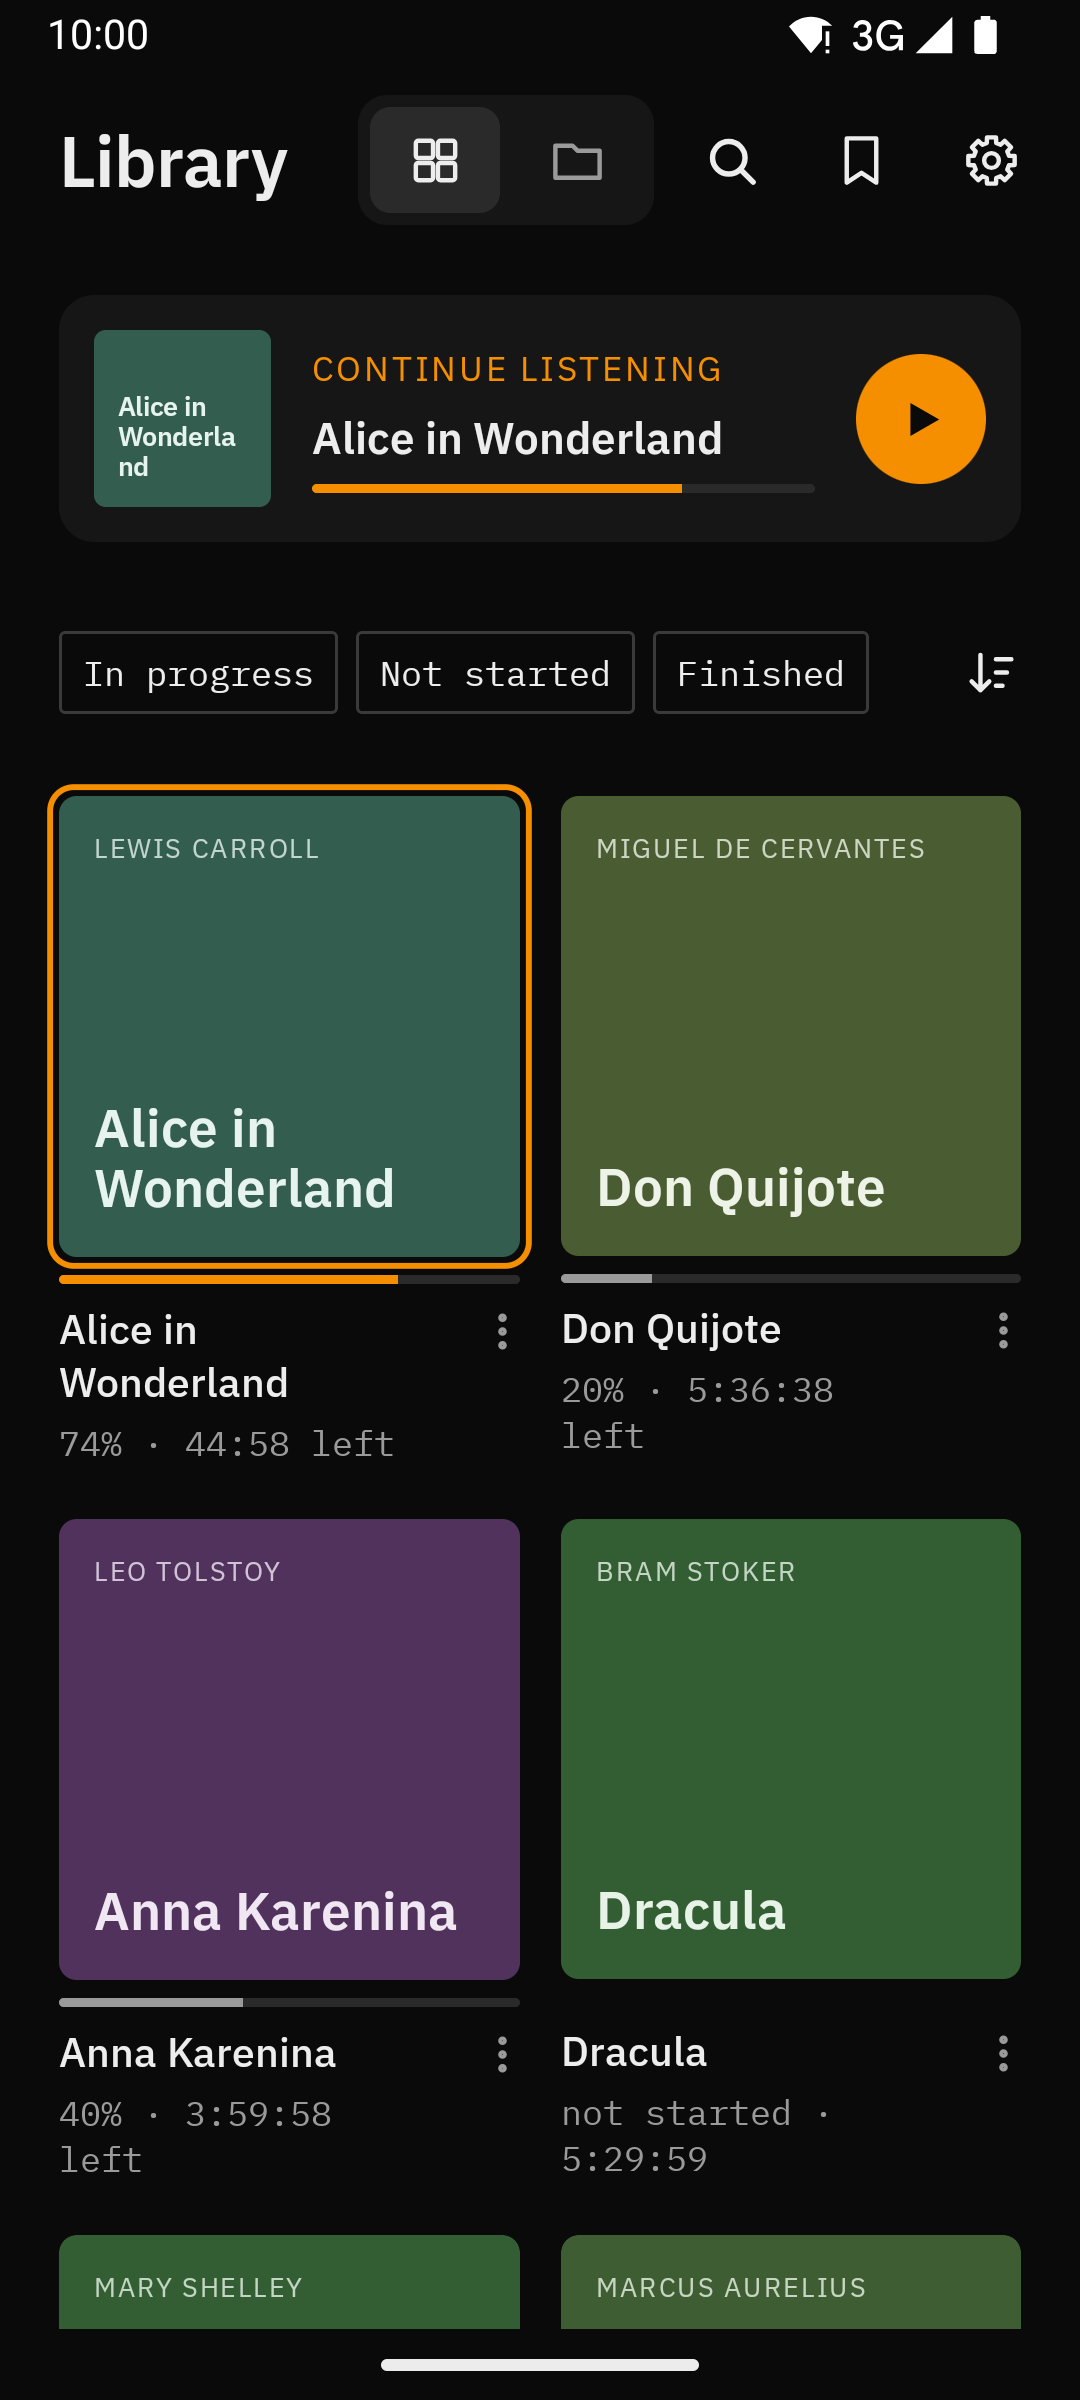
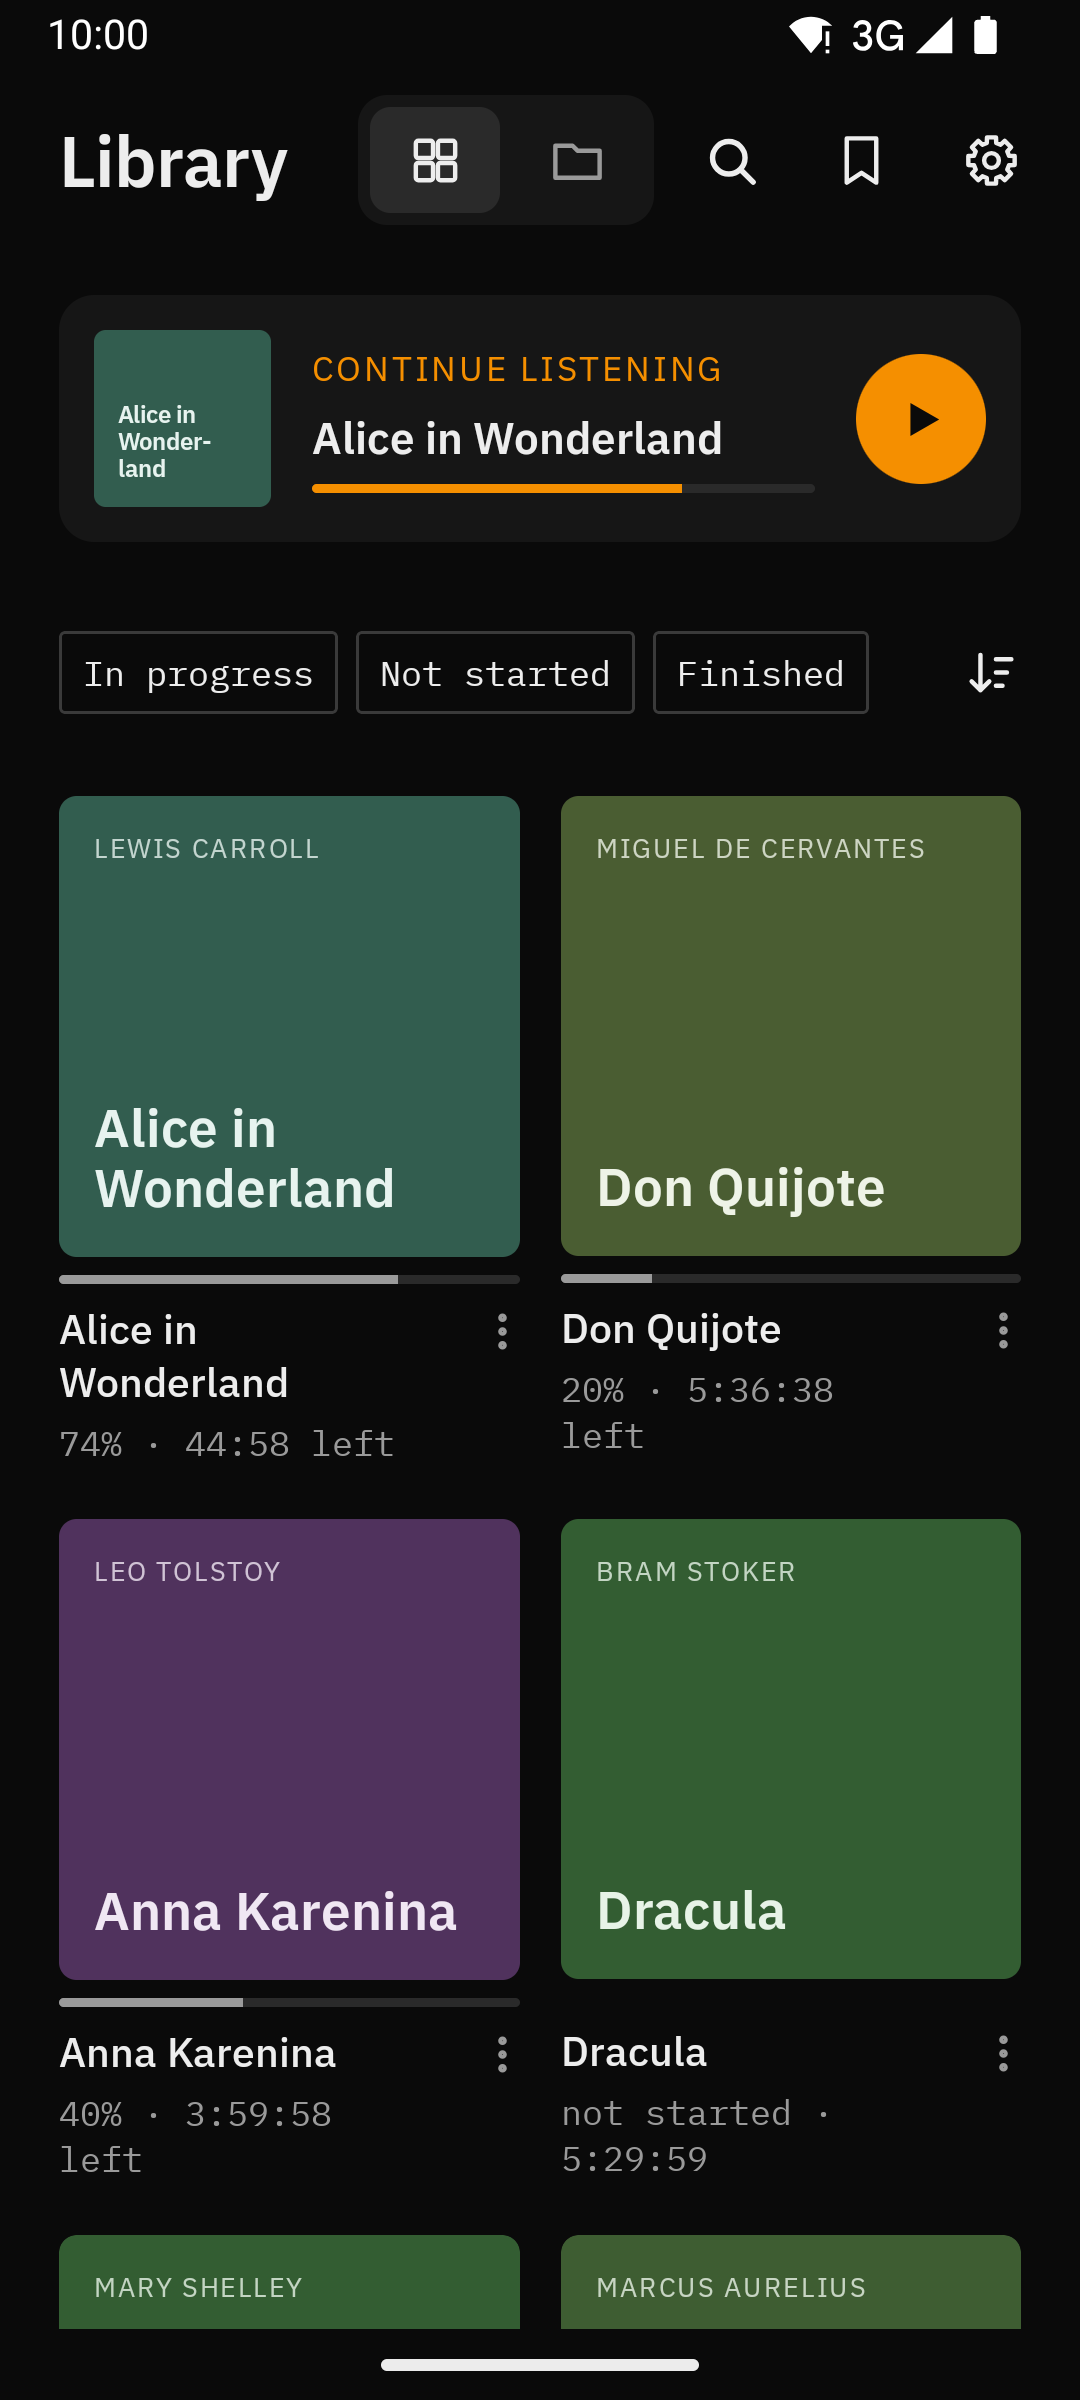
fix: fit long words on small typographic covers, lowercase app name
Shrink the title until its widest word fits, then hyphenate instead of
breaking mid-word. Visible name is now "lector", like the repo.

diff --git a/app/src/main/java/codelab/lector/ui/components/Cover.kt b/app/src/main/java/codelab/lector/ui/components/Cover.kt
@@ -3,20 +3,25 @@ package codelab.lector.ui.components
 import androidx.compose.foundation.background
 import androidx.compose.foundation.layout.Arrangement
 import androidx.compose.foundation.layout.Box
+import androidx.compose.foundation.layout.BoxWithConstraints
 import androidx.compose.foundation.layout.Column
 import androidx.compose.foundation.layout.Spacer
 import androidx.compose.foundation.layout.size
 import androidx.compose.foundation.layout.fillMaxSize
+import androidx.compose.foundation.layout.fillMaxWidth
 import androidx.compose.foundation.layout.padding
 import androidx.compose.foundation.shape.RoundedCornerShape
 import androidx.compose.material3.Text
 import androidx.compose.runtime.Composable
+import androidx.compose.runtime.remember
 import androidx.compose.ui.Modifier
 import androidx.compose.ui.draw.clip
 import androidx.compose.ui.graphics.Color
 import androidx.compose.ui.layout.ContentScale
 import androidx.compose.ui.text.TextStyle
 import androidx.compose.ui.text.font.FontWeight
+import androidx.compose.ui.text.rememberTextMeasurer
+import androidx.compose.ui.text.style.Hyphens
 import androidx.compose.ui.text.style.TextOverflow
 import androidx.compose.ui.unit.Dp
 import androidx.compose.ui.unit.dp
@@ -79,13 +84,35 @@ fun BookCover(
         } else {
             Spacer(Modifier.size(0.dp))
         }
-        Text(
-            title,
-            style = titleStyle.copy(fontWeight = FontWeight.SemiBold, lineHeight = titleStyle.fontSize * 1.12f),
-            color = ink,
-            maxLines = 4,
-            overflow = TextOverflow.Ellipsis,
-        )
+        BoxWithConstraints(Modifier.fillMaxWidth()) {
+            val style = fitWords(title, titleStyle.copy(fontWeight = FontWeight.SemiBold), constraints.maxWidth)
+            Text(
+                title,
+                style = style.copy(lineHeight = style.fontSize * 1.12f, hyphens = Hyphens.Auto),
+                color = ink,
+                maxLines = 4,
+                overflow = TextOverflow.Ellipsis,
+            )
+        }
+    }
+}
+
+/**
+ * Baja la letra hasta que la palabra más ancha cabe en una línea: en miniaturas, una palabra larga
+ * se partía por letras ("Wonderla / nd"). Mínimo 8 sp; si aun así no cabe, se divide con guion.
+ */
+@Composable
+private fun fitWords(text: String, style: TextStyle, maxWidth: Int): TextStyle {
+    val measurer = rememberTextMeasurer()
+    return remember(text, style, maxWidth) {
+        val words = text.split(Regex("\\s+")).filter { it.isNotEmpty() }
+        var size = style.fontSize.value
+        while (size > 8f) {
+            val widest = words.maxOfOrNull { measurer.measure(it, style.copy(fontSize = size.sp), softWrap = false, maxLines = 1).size.width } ?: 0
+            if (widest <= maxWidth) break
+            size -= 1f
+        }
+        style.copy(fontSize = size.sp)
     }
 }
 

diff --git a/app/src/main/java/codelab/lector/ui/settings/DataScreen.kt b/app/src/main/java/codelab/lector/ui/settings/DataScreen.kt
@@ -80,7 +80,7 @@ fun DataScreen(viewModel: DataViewModel, onBack: () -> Unit) {
         if (uri != null) viewModel.export(context, uri)
     }
     val choose = rememberBackupPicker(viewModel.import)
-    val fileName = safeFileName(stringResource(R.string.backup_file_name, "LECTOR", LocalDate.now().toString()))
+    val fileName = safeFileName(stringResource(R.string.backup_file_name, "lector", LocalDate.now().toString()))
 
     SettingsPage(stringResource(R.string.settings_data), onBack) {
         SectionHeader(stringResource(R.string.export))
@@ -111,7 +111,7 @@ fun DataScreen(viewModel: DataViewModel, onBack: () -> Unit) {
         ExportSheet(
             "${shown.sumOf { it.rows.size }}",
             shown.map { it.book.displayTitle to it.rows },
-            safeFileName(stringResource(R.string.bookmarks_file_name, "LECTOR")),
+            safeFileName(stringResource(R.string.bookmarks_file_name, "lector")),
             onDismiss = { exportingText = false },
         )
     }

diff --git a/app/src/main/java/codelab/lector/widget/LectorWidget.kt b/app/src/main/java/codelab/lector/widget/LectorWidget.kt
@@ -226,7 +226,7 @@ private fun Empty(c: LectorColors, modifier: GlanceModifier) {
         Image(ImageProvider(R.drawable.ic_lector_logo), null, GlanceModifier.size(36.dp))
         Spacer(GlanceModifier.width(12.dp))
         Column {
-            Text("LECTOR", style = TextStyle(color = color(c.text), fontSize = 15.sp, fontWeight = FontWeight.Medium))
+            Text("lector", style = TextStyle(color = color(c.text), fontSize = 15.sp, fontWeight = FontWeight.Medium))
             Text(context.getString(R.string.widget_empty), style = TextStyle(color = color(c.textSecondary), fontSize = 12.sp))
         }
     }

diff --git a/app/src/main/java/codelab/lector/ui/bookmarks/BookmarksScreen.kt b/app/src/main/java/codelab/lector/ui/bookmarks/BookmarksScreen.kt
@@ -178,7 +178,7 @@ fun BookmarksScreen(viewModel: BookmarksViewModel, onBack: () -> Unit, onSearch:
         ExportSheet(
             subtitle,
             shown.map { it.book.displayTitle to it.rows },
-            safeFileName(stringResource(R.string.bookmarks_file_name, "LECTOR")),
+            safeFileName(stringResource(R.string.bookmarks_file_name, "lector")),
             onDismiss = { exporting = false },
         )
     }

diff --git a/state.md b/state.md
@@ -25,7 +25,7 @@ Reproductor de audiolibros para Android, clon propio de Simple ABP: mismo minima
 - Ajustes B hecha y probada en el móvil (2026-10-05, `design.md` › Pantallas › Ajustes › B): Ajustes › Biblioteca con la lista de carpetas (quitar con "Deshacer", número de libros), "+ Añadir carpeta", "Última: fecha · n libros" (DataStore) y Mostrar portadas; explorador de carpetas con cuentas de audio en segundo plano, "Ya en la biblioteca" y "Usar esta carpeta" (sustituye a las que contiene y busca). El escaneo ya no toca los libros de una carpeta quitada; al volver a añadirla se reconectan sin duplicados (comprobado). Sin probar: selector Principal / Tarjeta SD (no hay SD). Entrada desde la Biblioteca vacía probada el 2026-10-05. Correcciones, con Unir y Separar
 - Posición por tramo hecha y probada en el móvil (2026-10-05, `design.md` › Reproducción): siguiente y anterior, paso automático de archivo con "Siguiente archivo desde su posición" y lista de capítulos retoman el punto guardado; tramo escuchado entero lo borra. Base de datos en versión 4 (`segment_position`), migración comprobada con la base del móvil. "Deshacer" de los saltos, 10 s
 - Notificación (2026-10-05): por defecto capítulo anterior, −10, play, +10, capítulo siguiente (`design.md` › Reproducción). Saltos con icono de Escuchando centrados en el círculo
-- Sin portadas hecho y probado en el móvil (2026-10-05, `design.md` › Pantallas › Sin portadas; lienzo, versión 151): portada tipográfica con tono por autor para libros sin portada; con "Mostrar portadas" apagado, Biblioteca en lista y Escuchando, minirreproductor, Carpetas y menú del libro sin portada
+- Sin portadas hecho y probado en el móvil (2026-10-05, `design.md` › Pantallas › Sin portadas; lienzo, versión 151). Desde el 2026-10-10, en portadas pequeñas el título baja de tamaño hasta que cabe su palabra más ancha (mínimo 8 sp) y, si no, se divide con guion; antes la partía por letras: portada tipográfica con tono por autor para libros sin portada; con "Mostrar portadas" apagado, Biblioteca en lista y Escuchando, minirreproductor, Carpetas y menú del libro sin portada
 - Primer arranque hecho y probado en el móvil (2026-10-05, `design.md` › Pantallas › Primer arranque): permiso con vuelta desde el ajuste de Android, carpetas con audio encontradas y marcadas, "Elegir otra carpeta", "Empezar" y Atrás que sale. Sin "Importar una copia de otro móvil" hasta Ajustes › Datos. Probado en emuladores de Android 8.0 y 10 (2026-10-09): permiso clásico (rechazar, rechazar para siempre con vuelta desde los ajustes, conceder), carpetas, Empezar, Biblioteca y reproducción. Denegado para siempre: se queda en la bienvenida con el aviso y "Abrir ajustes" (antes abría los ajustes sola; probado en los dos emuladores). Probar con datos vacíos: copia, `run-as io.github.memoriainfinita.lector rm` de `databases/lector.db*` y `files/datastore/settings.preferences_pb`, y restaurar (desde Bash: el guardia de PowerShell bloquea `rm`)
 - Ajustes C1 hecha y probada en el móvil (2026-10-06, `design.md` › Ajustes › C1): Ajustes › Botones con 4 huecos del reproductor y 4 de la notificación, hoja de acciones, segundos con Elegir valor, dividir por la velocidad; Escuchando, minirreproductor y notificación siguen los huecos (marcador desde el reproductor y desde la notificación guardado). Horizontal comprobado por el usuario; desde el 2026-10-06 los saltos llevan la flecha circular también ahí (vertical y horizontal comprobadas por el usuario). Giro automático encendido en el móvil: se puede girar por adb para probar; al terminar, avisar al usuario para que lo vuelva a encender (no se deja por adb; 2026-10-06)
 - Ajustes C2 hecha y probada en el móvil (2026-10-06, `design.md` › Ajustes › C2): Botones remotos (auricular con 1, 2 y 3 pulsaciones, teclas multimedia, responder con la app cerrada, resaltar la fila al pulsar) y Auricular (pausar al desconectar, reanudar al reconectar en 10 s; comprobado por el usuario con sus JBL). Fuera las filas de retrasos y "Notificación estándar". Con la app cerrada solo despiertan las teclas de play (límite de Media3). Probar con la app cerrada: `run-as io.github.memoriainfinita.lector kill <pid>` (no `force-stop`, que deja la app detenida y sin recibir pulsaciones). La versión de depuración tiene varias entradas en el lanzador: abrir con `am start -n io.github.memoriainfinita.lector/codelab.lector.MainActivity`, no con `monkey`
@@ -54,7 +54,7 @@ Reproductor de audiolibros para Android, clon propio de Simple ABP: mismo minima
 - Lectura de m4b largos (2026-10-08): la búsqueda se quedaba sin memoria (límite de 256 MB) leyendo varios a la vez (Media3 monta tablas de 10–60 MB por archivo de 15 h) y guardaba el fallo como duración 0 sin repetirlo; una búsqueda completa borraba además su portada incrustada. Ahora los mp4, m4a y m4b de más de 100 MB se leen de uno en uno, una lectura sin duración en formato admitido se repite en la siguiente búsqueda y los fallos van al log con la etiqueta `LectorScan`. Probado en el móvil principal: búsqueda completa sin avisos, Duke of Caladan (71 capítulos) y Princess of Dune (68) leídos, las 8 portadas incrustadas perdidas en la prueba anterior recuperadas
 - Icono del lanzador en prueba (2026-10-08): el logo a ×1,25 desde el centro en `ic_launcher_foreground` y `ic_launcher_monochrome` (las esquinas de las páginas quedan algo cortadas por el círculo). `ic_launcher_foreground` es también el icono de la pantalla de inicio de la app; `ic_lector_logo` (widget) no cambia. Motivo: en el dock de Nova, sobre un fondo de pantalla oscuro, el icono se veía pequeño (logo de 73 px en un círculo de 89). Se queda así por ahora (2026-10-09). Lienzo, fila "Icono" (versiones 162–188): fondos y tamaños sobre su dock real (`Icon-Backgrounds`), libro cerrado con play, lomo y cinta (`Icon-ClosedBook`, cuatro variantes, sin decidir) y `Logo-Studio`: el logo generado por parámetros con Tweaks de colores, libro, play, cinta, escala, giro, forma, borde de la forma y contorno del libro; su bloque "Valores" da los números para pasarlos a los vectores
 - Fuera de git: `test-books/` (4 libros de prueba, 447 MB: m4b con capítulos, mp3 con capítulos ID3, carpeta de 6 mp3 con portada aparte, mp3 suelto) para otros móviles, y `dist/LECTOR.apk` (última release, se reemplaza en cada versión)
-- Git, rama `main`, remoto `memoriainfinita/lector`. `.gitignore` excluye `.backups/` y `ref/` (capturas y textos de Simple ABP con nombres de libros del usuario; fuera también del historial desde el 2026-10-10)
+- Publicado: repo público `memoriainfinita/lector`, release v1.0.0 con el APK firmado (2026-10-10). Nombre visible de la app en minúsculas, "lector", como el repo. Rama `main`. `.gitignore` excluye `.backups/` y `ref/` (capturas y textos de Simple ABP con nombres de libros del usuario; fuera también del historial desde el 2026-10-10)
 - Entorno: Android Studio 2026.2 con su JDK (OpenJDK 25.0.3, en `jbr`). SDK android-37.0, build-tools 36.0.0. Rutas, variables, adb, móviles y clave de firma de esta máquina: en el estado de la máquina, fuera del repo. Ni Bash ni PowerShell de Claude Code heredan ANDROID_HOME ni GRADLE_USER_HOME: ponerlas en la orden (sin GRADLE_USER_HOME el wrapper descarga Gradle en ~/.gradle y la release sale sin firmar). adb: el del SDK, también para scrcpy: dos adb de versión distinta se reinician el servidor el uno al otro y desconectan los dispositivos. Desde Git Bash, `export MSYS_NO_PATHCONV=1` antes de órdenes adb con rutas del móvil (`/data/local/tmp`): si no, las convierte en rutas de Windows. Con eso puesto, las rutas locales de `adb push` van en formato Windows (`C:/Users/…`): `/c/Users/…` no se encuentra. Móvil Xiaomi (Android 15): adb inyecta toques con "Depuración USB (ajustes de seguridad)", activo desde el 2026-10-05; tras activarlo hizo falta reiniciar el móvil. Xiaomi: requiere "Instalar vía USB" activado en Opciones de desarrollador. Emuladores (2026-10-09): cmdline-tools 23.0; AVD lector_api26 y lector_api29 (Google APIs x86_64). Arrancar sin ventana ni audio: `emulator -avd <nombre> -no-window -no-audio -no-snapshot -gpu swiftshader_indirect`; serie emulator-5554; apagar con `adb -s emulator-5554 emu kill`. El primer arranque del emulador reinicia el sistema una vez ("Pixel is starting…"): esperar al escritorio antes de probar. Paquetes de sdkmanager.bat con "/" en lugar de ";" desde Git Bash. Emulador del móvil (2026-10-09): lector_api35 (Android 15, Google APIs x86_64, 1080×2400, densidad 472, 4 GB, 16 GB de datos) con test-books, Duke of Caladan, Princess of Dune y los archivos de formatos en /sdcard/Audiobooks (2,1 GB); LECTOR de depuración con primer arranque hecho. Arrancar con -gpu host (más rápido que swiftshader); esperar un minuto tras el arranque (carga alta: LECTOR llegó a dar "no responde" esperando CPU). Memoria por app 192 MB (el móvil, 256; -prop no lo cambia y setprop + reinicio del sistema lo deja inestable). Tras adb push: adb shell sync y apagar con adb shell reboot -p (emu kill dejó archivos recién subidos vacíos). No sustituye al móvil en HyperOS, Nova, auricular y botones, sensores, Android Auto ni rendimiento real
 
 ## TODO
